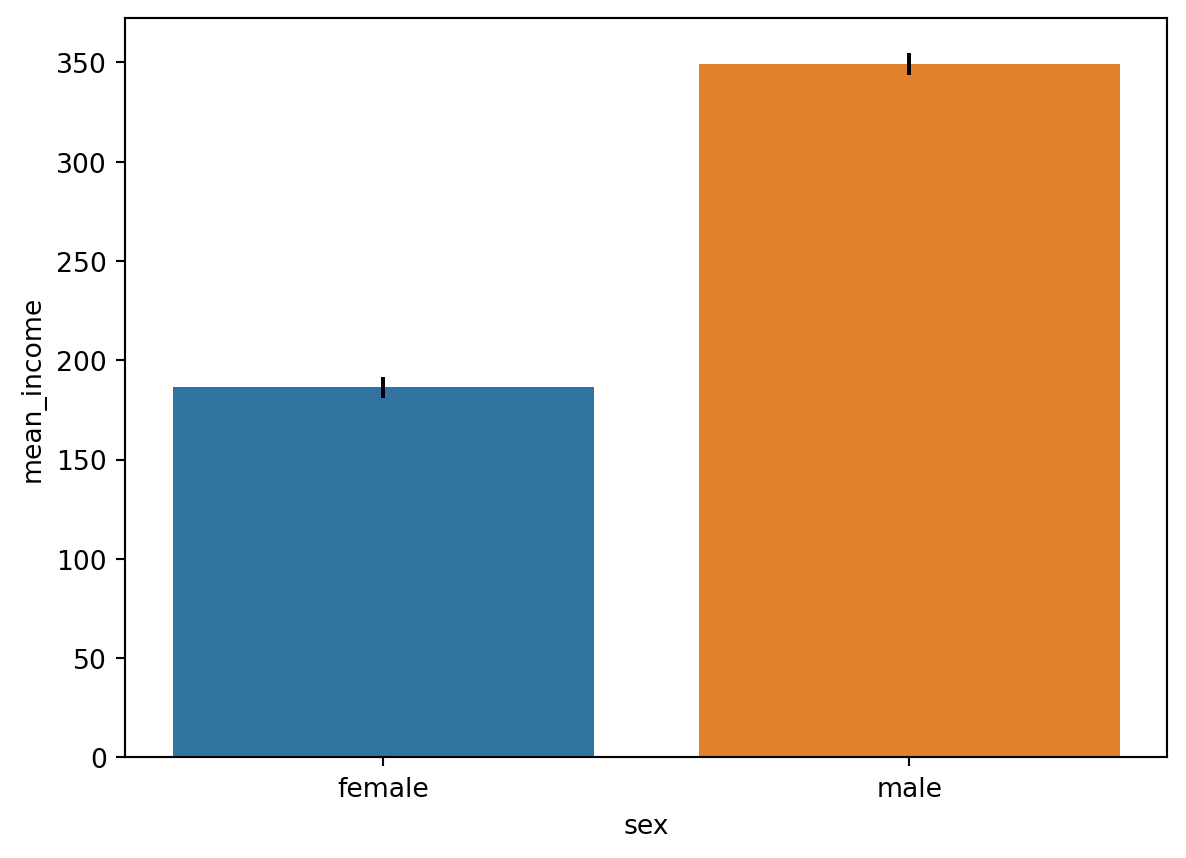
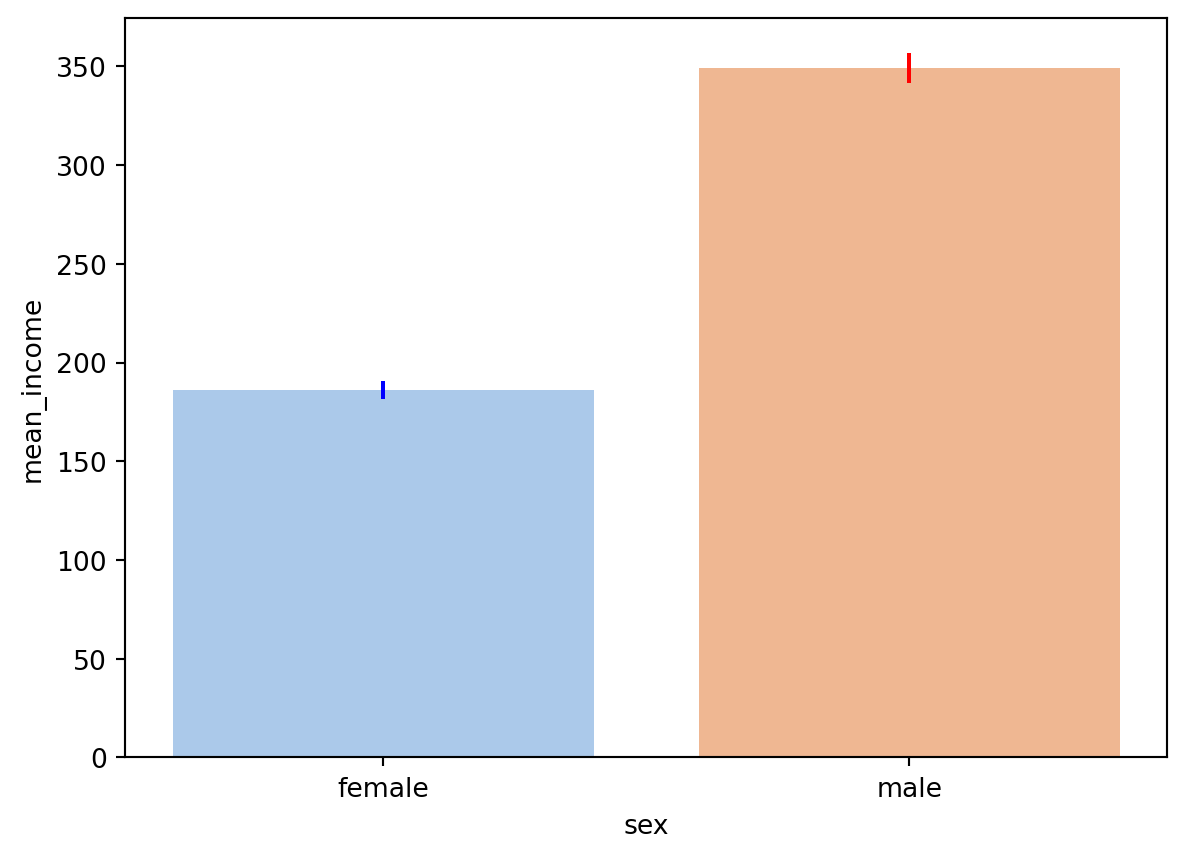
update - statistics

diff --git a/docs/posts/hw7.html b/docs/posts/hw7.html
@@ -203,7 +203,7 @@ pre > code.sourceCode > span > a:first-child::before { text-decoration: underlin
 <section id="convinience-level-visualization-practice" class="level1">
 <h1>Convinience Level Visualization Practice</h1>
 <p><strong>필요한 패키지 불러오기</strong></p>
-<div id="7f4bdb4a" class="cell" data-execution_count="1">
+<div id="20584c8a" class="cell" data-execution_count="1">
 <div class="sourceCode cell-code" id="cb1"><pre class="sourceCode python code-with-copy"><code class="sourceCode python"><span id="cb1-1"><a href="#cb1-1" aria-hidden="true" tabindex="-1"></a><span class="im">import</span> pandas <span class="im">as</span> pd</span>
 <span id="cb1-2"><a href="#cb1-2" aria-hidden="true" tabindex="-1"></a><span class="im">import</span> numpy <span class="im">as</span> np</span>
 <span id="cb1-3"><a href="#cb1-3" aria-hidden="true" tabindex="-1"></a><span class="im">import</span> matplotlib.pyplot <span class="im">as</span> plt</span>
@@ -211,11 +211,11 @@ pre > code.sourceCode > span > a:first-child::before { text-decoration: underlin
 <span id="cb1-5"><a href="#cb1-5" aria-hidden="true" tabindex="-1"></a><span class="im">from</span> scipy.stats <span class="im">import</span> norm</span></code><button title="Copy to Clipboard" class="code-copy-button"><i class="bi"></i></button></pre></div>
 </div>
 <p><strong>데이터 불러오기</strong></p>
-<div id="e21fdc98" class="cell" data-execution_count="2">
+<div id="013b51eb" class="cell" data-execution_count="2">
 <div class="sourceCode cell-code" id="cb2"><pre class="sourceCode python code-with-copy"><code class="sourceCode python"><span id="cb2-1"><a href="#cb2-1" aria-hidden="true" tabindex="-1"></a><span class="co"># !pip install pyreadstat</span></span>
 <span id="cb2-2"><a href="#cb2-2" aria-hidden="true" tabindex="-1"></a>welfare <span class="op">=</span> pd.read_spss(<span class="st">"C:/Users/USER/Documents/LS 빅데이터 스쿨/myportfolio/data/Koweps_hpwc14_2019_beta2.sav"</span>)</span>
 <span id="cb2-3"><a href="#cb2-3" aria-hidden="true" tabindex="-1"></a>welfare.head()</span></code><button title="Copy to Clipboard" class="code-copy-button"><i class="bi"></i></button></pre></div>
-<div class="cell-output cell-output-display" data-execution_count="14">
+<div class="cell-output cell-output-display" data-execution_count="28">
 <div>
 
 
@@ -375,7 +375,7 @@ pre > code.sourceCode > span > a:first-child::before { text-decoration: underlin
 </div>
 </div>
 <p><strong>필요한 컬럼들 이름 바꾸기</strong></p>
-<div id="e8ff99c2" class="cell" data-execution_count="3">
+<div id="ee520eac" class="cell" data-execution_count="3">
 <div class="sourceCode cell-code" id="cb3"><pre class="sourceCode python code-with-copy"><code class="sourceCode python"><span id="cb3-1"><a href="#cb3-1" aria-hidden="true" tabindex="-1"></a>welfare <span class="op">=</span> welfare.rename(</span>
 <span id="cb3-2"><a href="#cb3-2" aria-hidden="true" tabindex="-1"></a>    columns <span class="op">=</span> {<span class="st">'h14_g3'</span>     : <span class="st">'sex'</span>,           <span class="co"># 성별</span></span>
 <span id="cb3-3"><a href="#cb3-3" aria-hidden="true" tabindex="-1"></a>               <span class="st">'h14_g4'</span>     : <span class="st">'birth'</span>,         <span class="co"># 태어난 년도</span></span>
@@ -387,7 +387,7 @@ pre > code.sourceCode > span > a:first-child::before { text-decoration: underlin
 <span id="cb3-9"><a href="#cb3-9" aria-hidden="true" tabindex="-1"></a>welfare<span class="op">=</span> welfare[[<span class="st">'sex'</span>, <span class="st">'birth'</span>, <span class="st">'marriage_type'</span>, <span class="st">'religion'</span>, <span class="st">'income'</span>, <span class="st">'code_job'</span>, <span class="st">'code_region'</span>]]</span></code><button title="Copy to Clipboard" class="code-copy-button"><i class="bi"></i></button></pre></div>
 </div>
 <p><strong><code>sex</code> 컬럼 검토 및 <code>male</code>, <code>female</code>로 변경</strong></p>
-<div id="49679c2b" class="cell" data-execution_count="4">
+<div id="b5f78940" class="cell" data-execution_count="4">
 <div class="sourceCode cell-code" id="cb4"><pre class="sourceCode python code-with-copy"><code class="sourceCode python"><span id="cb4-1"><a href="#cb4-1" aria-hidden="true" tabindex="-1"></a><span class="co"># 원래 성별 변수</span></span>
 <span id="cb4-2"><a href="#cb4-2" aria-hidden="true" tabindex="-1"></a>welfare[<span class="st">'sex'</span>].dtypes</span>
 <span id="cb4-3"><a href="#cb4-3" aria-hidden="true" tabindex="-1"></a>welfare[<span class="st">'sex'</span>].value_counts() </span>
@@ -396,7 +396,7 @@ pre > code.sourceCode > span > a:first-child::before { text-decoration: underlin
 <span id="cb4-6"><a href="#cb4-6" aria-hidden="true" tabindex="-1"></a><span class="co"># male과 female로 변경</span></span>
 <span id="cb4-7"><a href="#cb4-7" aria-hidden="true" tabindex="-1"></a>welfare[<span class="st">'sex'</span>] <span class="op">=</span> np.where(welfare[<span class="st">'sex'</span>] <span class="op">==</span> <span class="dv">1</span>, <span class="st">'male'</span>, <span class="st">'female'</span>)</span>
 <span id="cb4-8"><a href="#cb4-8" aria-hidden="true" tabindex="-1"></a>welfare[<span class="st">'sex'</span>].value_counts()</span></code><button title="Copy to Clipboard" class="code-copy-button"><i class="bi"></i></button></pre></div>
-<div class="cell-output cell-output-display" data-execution_count="16">
+<div class="cell-output cell-output-display" data-execution_count="30">
 <pre><code>sex
 female    7913
 male      6505
@@ -404,12 +404,12 @@ Name: count, dtype: int64</code></pre>
 </div>
 </div>
 <p><strong>성별에 따른 월급 알아보기</strong></p>
-<div id="cdcee583" class="cell" data-execution_count="5">
+<div id="8b76868d" class="cell" data-execution_count="5">
 <div class="sourceCode cell-code" id="cb6"><pre class="sourceCode python code-with-copy"><code class="sourceCode python"><span id="cb6-1"><a href="#cb6-1" aria-hidden="true" tabindex="-1"></a>sex_income <span class="op">=</span> welfare.dropna(subset <span class="op">=</span> <span class="st">'income'</span>) <span class="op">\</span></span>
 <span id="cb6-2"><a href="#cb6-2" aria-hidden="true" tabindex="-1"></a>                         .groupby(<span class="st">'sex'</span>, as_index <span class="op">=</span> <span class="va">False</span>) <span class="op">\</span></span>
 <span id="cb6-3"><a href="#cb6-3" aria-hidden="true" tabindex="-1"></a>                         .agg(mean_income <span class="op">=</span> (<span class="st">'income'</span>, <span class="st">'mean'</span>))</span>
 <span id="cb6-4"><a href="#cb6-4" aria-hidden="true" tabindex="-1"></a>sex_income</span></code><button title="Copy to Clipboard" class="code-copy-button"><i class="bi"></i></button></pre></div>
-<div class="cell-output cell-output-display" data-execution_count="17">
+<div class="cell-output cell-output-display" data-execution_count="31">
 <div>
 
 
@@ -439,8 +439,8 @@ Name: count, dtype: int64</code></pre>
 </div>
 </div>
 <p><strong>성별 월급 평균표</strong></p>
-<div id="b1d20375" class="cell" data-execution_count="6">
-<div class="sourceCode cell-code" id="cb7"><pre class="sourceCode python code-with-copy"><code class="sourceCode python"><span id="cb7-1"><a href="#cb7-1" aria-hidden="true" tabindex="-1"></a>sns.barplot(data <span class="op">=</span> sex_income, x <span class="op">=</span> <span class="st">'sex'</span>, y <span class="op">=</span> <span class="st">'mean_income'</span>, hue <span class="op">=</span> <span class="st">"sex"</span>)</span>
+<div id="18f8d948" class="cell" data-execution_count="6">
+<div class="sourceCode cell-code" id="cb7"><pre class="sourceCode python code-with-copy"><code class="sourceCode python"><span id="cb7-1"><a href="#cb7-1" aria-hidden="true" tabindex="-1"></a>sns.barplot(data <span class="op">=</span> sex_income, x <span class="op">=</span> <span class="st">'sex'</span>, y <span class="op">=</span> <span class="st">'mean_income'</span>, hue <span class="op">=</span> <span class="st">"sex"</span>, palette <span class="op">=</span> <span class="st">"pastel"</span>)</span>
 <span id="cb7-2"><a href="#cb7-2" aria-hidden="true" tabindex="-1"></a>plt.show()</span>
 <span id="cb7-3"><a href="#cb7-3" aria-hidden="true" tabindex="-1"></a>plt.clf()</span></code><button title="Copy to Clipboard" class="code-copy-button"><i class="bi"></i></button></pre></div>
 <div class="cell-output cell-output-display">
@@ -458,7 +458,7 @@ Name: count, dtype: int64</code></pre>
 <ol start="0" type="1">
 <li>성별에 따른 income 데이터프레임 생성</li>
 </ol>
-<div id="e51fed79" class="cell" data-execution_count="7">
+<div id="38bf181e" class="cell" data-execution_count="7">
 <div class="sourceCode cell-code" id="cb9"><pre class="sourceCode python code-with-copy"><code class="sourceCode python"><span id="cb9-1"><a href="#cb9-1" aria-hidden="true" tabindex="-1"></a>f_income <span class="op">=</span> welfare.dropna(subset <span class="op">=</span> <span class="st">"income"</span>) <span class="op">\</span></span>
 <span id="cb9-2"><a href="#cb9-2" aria-hidden="true" tabindex="-1"></a>                  .query(<span class="st">"sex == 'female'"</span>)[<span class="st">'income'</span>]</span>
 <span id="cb9-3"><a href="#cb9-3" aria-hidden="true" tabindex="-1"></a>m_income <span class="op">=</span> welfare.dropna(subset <span class="op">=</span> <span class="st">'income'</span>) <span class="op">\</span></span>
@@ -467,42 +467,42 @@ Name: count, dtype: int64</code></pre>
 <ol type="1">
 <li>성별 별 평균</li>
 </ol>
-<div id="a6cd6d9b" class="cell" data-execution_count="8">
+<div id="e9bc1191" class="cell" data-execution_count="8">
 <div class="sourceCode cell-code" id="cb10"><pre class="sourceCode python code-with-copy"><code class="sourceCode python"><span id="cb10-1"><a href="#cb10-1" aria-hidden="true" tabindex="-1"></a>f_bar <span class="op">=</span> np.mean(f_income)</span>
 <span id="cb10-2"><a href="#cb10-2" aria-hidden="true" tabindex="-1"></a>m_bar <span class="op">=</span> np.mean(m_income)</span></code><button title="Copy to Clipboard" class="code-copy-button"><i class="bi"></i></button></pre></div>
 </div>
 <ol start="2" type="1">
 <li>표본표준편차 사용해서 모표분편차 추정</li>
 </ol>
-<div id="e34ff42c" class="cell" data-execution_count="9">
+<div id="9248be36" class="cell" data-execution_count="9">
 <div class="sourceCode cell-code" id="cb11"><pre class="sourceCode python code-with-copy"><code class="sourceCode python"><span id="cb11-1"><a href="#cb11-1" aria-hidden="true" tabindex="-1"></a>f_std <span class="op">=</span> np.sqrt(np.var(f_income, ddof<span class="op">=</span><span class="dv">1</span>))</span>
 <span id="cb11-2"><a href="#cb11-2" aria-hidden="true" tabindex="-1"></a>m_std <span class="op">=</span> np.sqrt(np.var(m_income, ddof<span class="op">=</span><span class="dv">1</span>))</span></code><button title="Copy to Clipboard" class="code-copy-button"><i class="bi"></i></button></pre></div>
 </div>
 <ol start="3" type="1">
 <li>성별 별 표본 개수 구하기</li>
 </ol>
-<div id="d13f551b" class="cell" data-execution_count="10">
+<div id="9d5df061" class="cell" data-execution_count="10">
 <div class="sourceCode cell-code" id="cb12"><pre class="sourceCode python code-with-copy"><code class="sourceCode python"><span id="cb12-1"><a href="#cb12-1" aria-hidden="true" tabindex="-1"></a>f_n <span class="op">=</span> <span class="bu">len</span>(f_income)</span>
 <span id="cb12-2"><a href="#cb12-2" aria-hidden="true" tabindex="-1"></a>m_n <span class="op">=</span> <span class="bu">len</span>(m_income)</span></code><button title="Copy to Clipboard" class="code-copy-button"><i class="bi"></i></button></pre></div>
 </div>
 <ol start="4" type="1">
 <li>z</li>
 </ol>
-<div id="315b3a54" class="cell" data-execution_count="11">
-<div class="sourceCode cell-code" id="cb13"><pre class="sourceCode python code-with-copy"><code class="sourceCode python"><span id="cb13-1"><a href="#cb13-1" aria-hidden="true" tabindex="-1"></a>z_0025 <span class="op">=</span> norm.ppf(<span class="fl">0.975</span>, loc<span class="op">=</span><span class="dv">0</span>, scale<span class="op">=</span><span class="dv">1</span>)</span></code><button title="Copy to Clipboard" class="code-copy-button"><i class="bi"></i></button></pre></div>
+<div id="caa49bf7" class="cell" data-execution_count="11">
+<div class="sourceCode cell-code" id="cb13"><pre class="sourceCode python code-with-copy"><code class="sourceCode python"><span id="cb13-1"><a href="#cb13-1" aria-hidden="true" tabindex="-1"></a>z_0025 <span class="op">=</span> norm.ppf(<span class="fl">0.95</span>, loc<span class="op">=</span><span class="dv">0</span>, scale<span class="op">=</span><span class="dv">1</span>)</span></code><button title="Copy to Clipboard" class="code-copy-button"><i class="bi"></i></button></pre></div>
 </div>
 <p><strong>성별 별로 신뢰구간 계산하기</strong></p>
-<div id="6234d83c" class="cell" data-execution_count="12">
-<div class="sourceCode cell-code" id="cb14"><pre class="sourceCode python code-with-copy"><code class="sourceCode python"><span id="cb14-1"><a href="#cb14-1" aria-hidden="true" tabindex="-1"></a>f_conv1 <span class="op">=</span> f_bar <span class="op">-</span> z_0025 <span class="op">*</span> f_std<span class="op">/</span>np.sqrt(f_n)</span>
-<span id="cb14-2"><a href="#cb14-2" aria-hidden="true" tabindex="-1"></a>f_conv2 <span class="op">=</span> f_bar <span class="op">+</span> z_0025 <span class="op">*</span> f_std<span class="op">/</span>np.sqrt(f_n)</span>
-<span id="cb14-3"><a href="#cb14-3" aria-hidden="true" tabindex="-1"></a>m_conv1 <span class="op">=</span> m_bar <span class="op">-</span> z_0025 <span class="op">*</span> f_std<span class="op">/</span>np.sqrt(m_n)</span>
-<span id="cb14-4"><a href="#cb14-4" aria-hidden="true" tabindex="-1"></a>m_conv2 <span class="op">=</span> m_bar <span class="op">+</span> z_0025 <span class="op">*</span> f_std<span class="op">/</span>np.sqrt(m_n)</span></code><button title="Copy to Clipboard" class="code-copy-button"><i class="bi"></i></button></pre></div>
+<div id="aa6343f0" class="cell" data-execution_count="12">
+<div class="sourceCode cell-code" id="cb14"><pre class="sourceCode python code-with-copy"><code class="sourceCode python"><span id="cb14-1"><a href="#cb14-1" aria-hidden="true" tabindex="-1"></a>f_conf1 <span class="op">=</span> f_bar <span class="op">-</span> z_0025 <span class="op">*</span> f_std<span class="op">/</span>np.sqrt(f_n)</span>
+<span id="cb14-2"><a href="#cb14-2" aria-hidden="true" tabindex="-1"></a>f_conf2 <span class="op">=</span> f_bar <span class="op">+</span> z_0025 <span class="op">*</span> f_std<span class="op">/</span>np.sqrt(f_n)</span>
+<span id="cb14-3"><a href="#cb14-3" aria-hidden="true" tabindex="-1"></a>m_conf1 <span class="op">=</span> m_bar <span class="op">-</span> z_0025 <span class="op">*</span> m_std<span class="op">/</span>np.sqrt(m_n)</span>
+<span id="cb14-4"><a href="#cb14-4" aria-hidden="true" tabindex="-1"></a>m_conf2 <span class="op">=</span> m_bar <span class="op">+</span> z_0025 <span class="op">*</span> m_std<span class="op">/</span>np.sqrt(m_n)</span></code><button title="Copy to Clipboard" class="code-copy-button"><i class="bi"></i></button></pre></div>
 </div>
 <p><strong>그래프에 나타내기</strong></p>
-<div id="5b050ee2" class="cell" data-execution_count="13">
-<div class="sourceCode cell-code" id="cb15"><pre class="sourceCode python code-with-copy"><code class="sourceCode python"><span id="cb15-1"><a href="#cb15-1" aria-hidden="true" tabindex="-1"></a>sns.barplot(data <span class="op">=</span> sex_income, x <span class="op">=</span> <span class="st">'sex'</span>, y <span class="op">=</span> <span class="st">'mean_income'</span>, hue <span class="op">=</span> <span class="st">"sex"</span>)</span>
-<span id="cb15-2"><a href="#cb15-2" aria-hidden="true" tabindex="-1"></a>plt.vlines(x <span class="op">=</span> <span class="st">"female"</span>, ymin <span class="op">=</span> f_conv1, ymax <span class="op">=</span> f_conv2, colors <span class="op">=</span> <span class="st">"black"</span>)</span>
-<span id="cb15-3"><a href="#cb15-3" aria-hidden="true" tabindex="-1"></a>plt.vlines(x <span class="op">=</span> <span class="st">"male"</span>, ymin <span class="op">=</span> m_conv1, ymax <span class="op">=</span> m_conv2, colors <span class="op">=</span> <span class="st">"black"</span>)</span>
+<div id="741d9426" class="cell" data-execution_count="13">
+<div class="sourceCode cell-code" id="cb15"><pre class="sourceCode python code-with-copy"><code class="sourceCode python"><span id="cb15-1"><a href="#cb15-1" aria-hidden="true" tabindex="-1"></a>sns.barplot(data <span class="op">=</span> sex_income, x <span class="op">=</span> <span class="st">'sex'</span>, y <span class="op">=</span> <span class="st">'mean_income'</span>, hue <span class="op">=</span> <span class="st">"sex"</span>, palette <span class="op">=</span> <span class="st">"pastel"</span>)</span>
+<span id="cb15-2"><a href="#cb15-2" aria-hidden="true" tabindex="-1"></a>plt.vlines(x <span class="op">=</span> <span class="st">"female"</span>, ymin <span class="op">=</span> f_conf1, ymax <span class="op">=</span> f_conf2, colors <span class="op">=</span> <span class="st">"blue"</span>)</span>
+<span id="cb15-3"><a href="#cb15-3" aria-hidden="true" tabindex="-1"></a>plt.vlines(x <span class="op">=</span> <span class="st">"male"</span>, ymin <span class="op">=</span> m_conf1, ymax <span class="op">=</span> m_conf2, colors <span class="op">=</span> <span class="st">"red"</span>)</span>
 <span id="cb15-4"><a href="#cb15-4" aria-hidden="true" tabindex="-1"></a>plt.show()</span>
 <span id="cb15-5"><a href="#cb15-5" aria-hidden="true" tabindex="-1"></a>plt.clf()</span></code><button title="Copy to Clipboard" class="code-copy-button"><i class="bi"></i></button></pre></div>
 <div class="cell-output cell-output-display">

diff --git a/docs/blog.html b/docs/blog.html
@@ -224,7 +224,7 @@ window.Quarto = {
 </a>
 </div>
 </div>
-<div class="quarto-post image-right" data-index="1" data-categories="Statistics" data-listing-date-sort="1722265200000" data-listing-file-modified-sort="1722345217521" data-listing-date-modified-sort="NaN" data-listing-reading-time-sort="3" data-listing-word-count-sort="477">
+<div class="quarto-post image-right" data-index="1" data-categories="Statistics" data-listing-date-sort="1722265200000" data-listing-file-modified-sort="1722345948040" data-listing-date-modified-sort="NaN" data-listing-reading-time-sort="3" data-listing-word-count-sort="483">
 <div class="thumbnail">
 <p><a href="./posts/hw7.html" class="no-external"></a></p><a href="./posts/hw7.html" class="no-external">
 <p class="card-img-top"><img src="posts\hw7_files\figure-html\cell-7-output-1.png"  class="thumbnail-image card-img"/></p>
